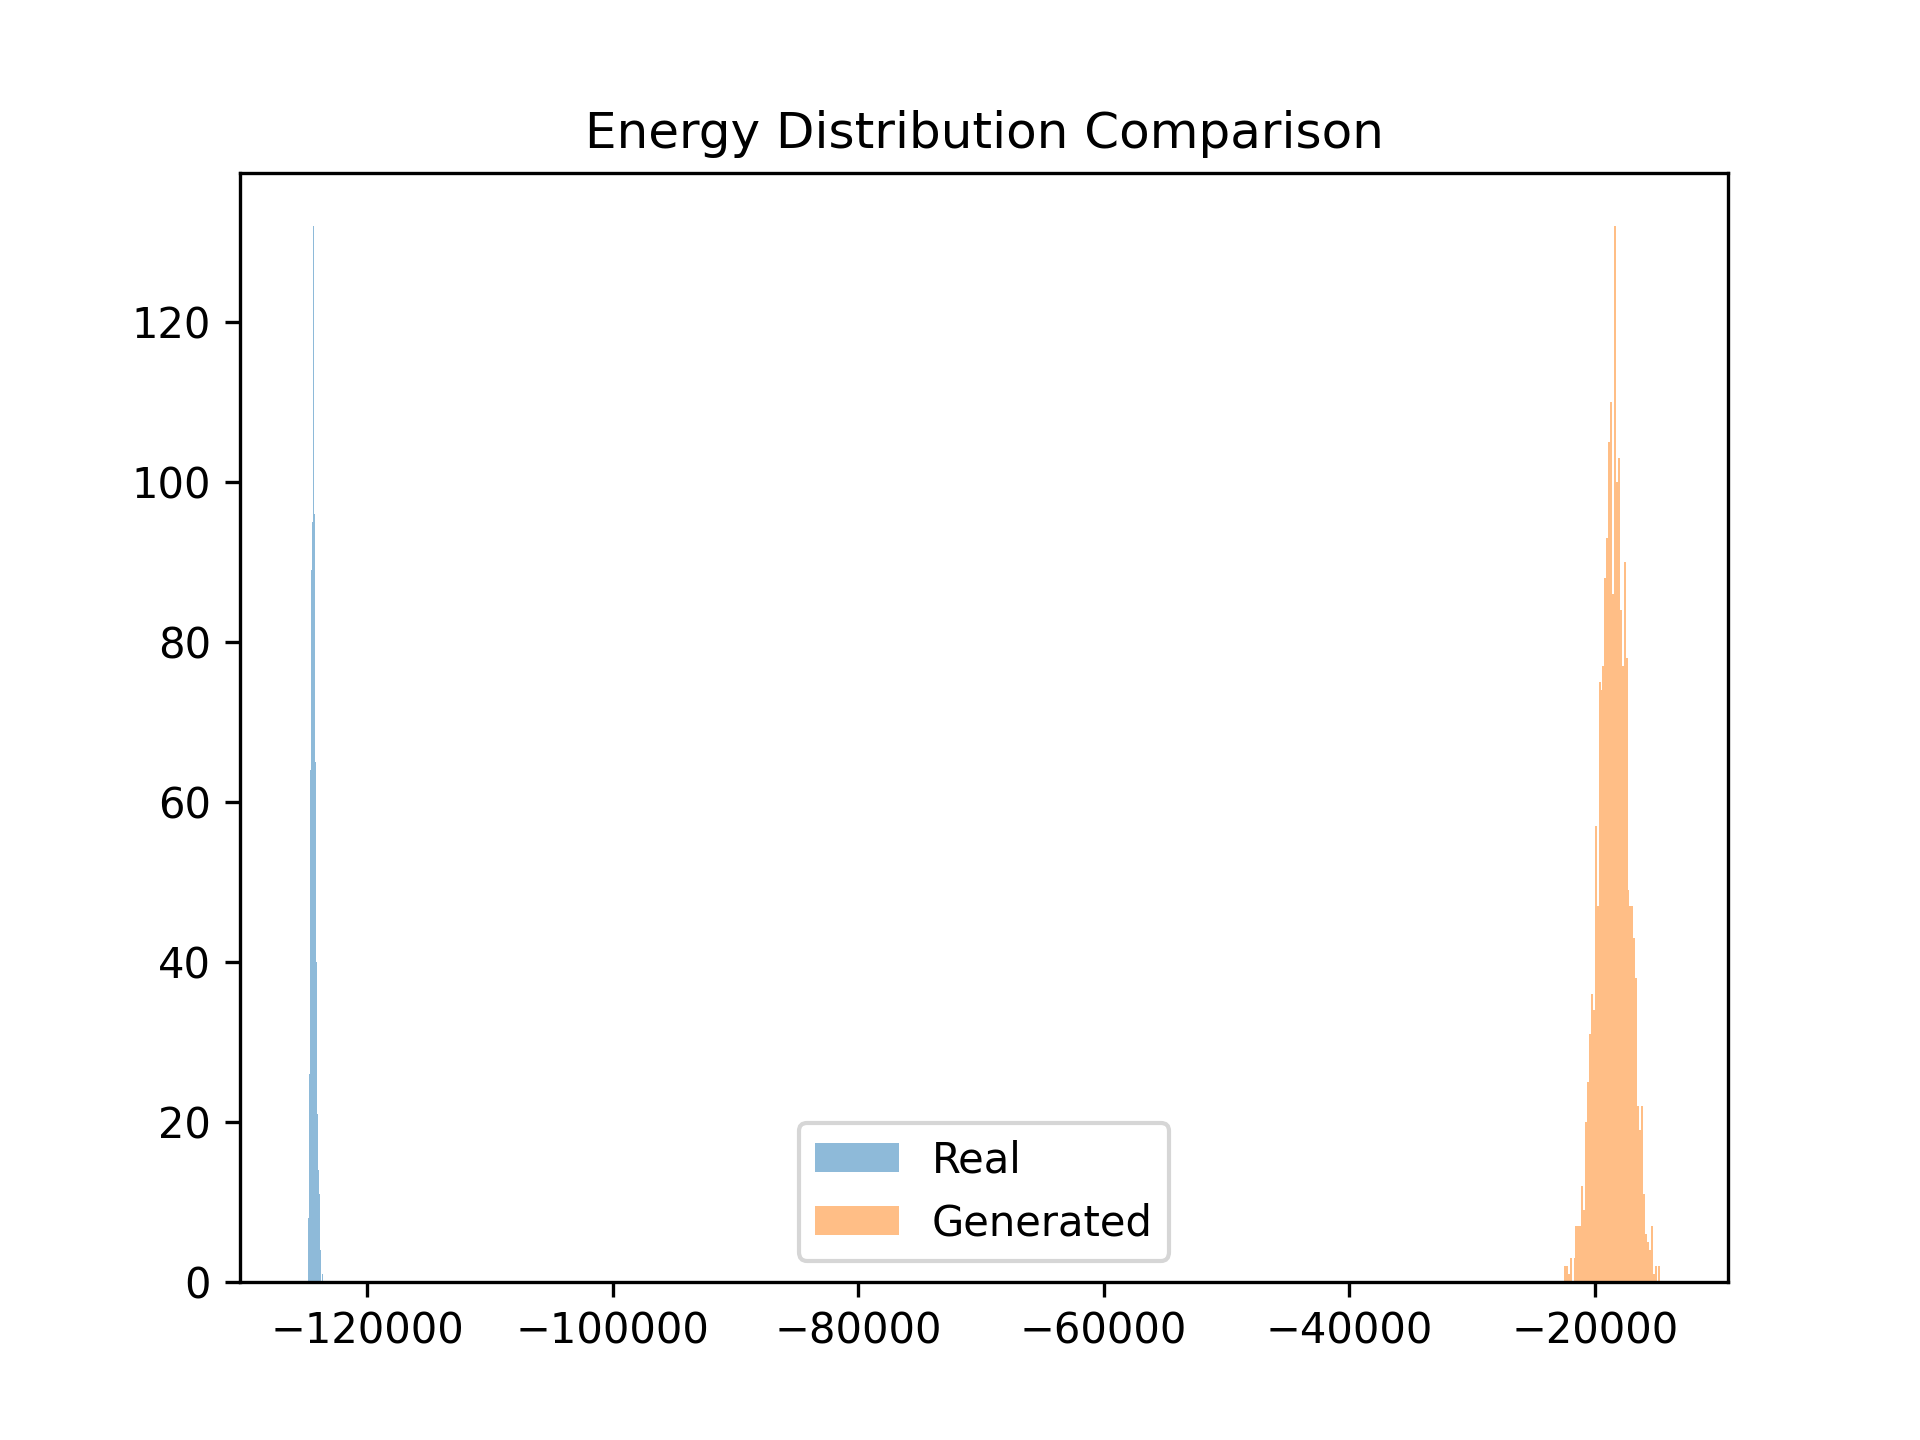
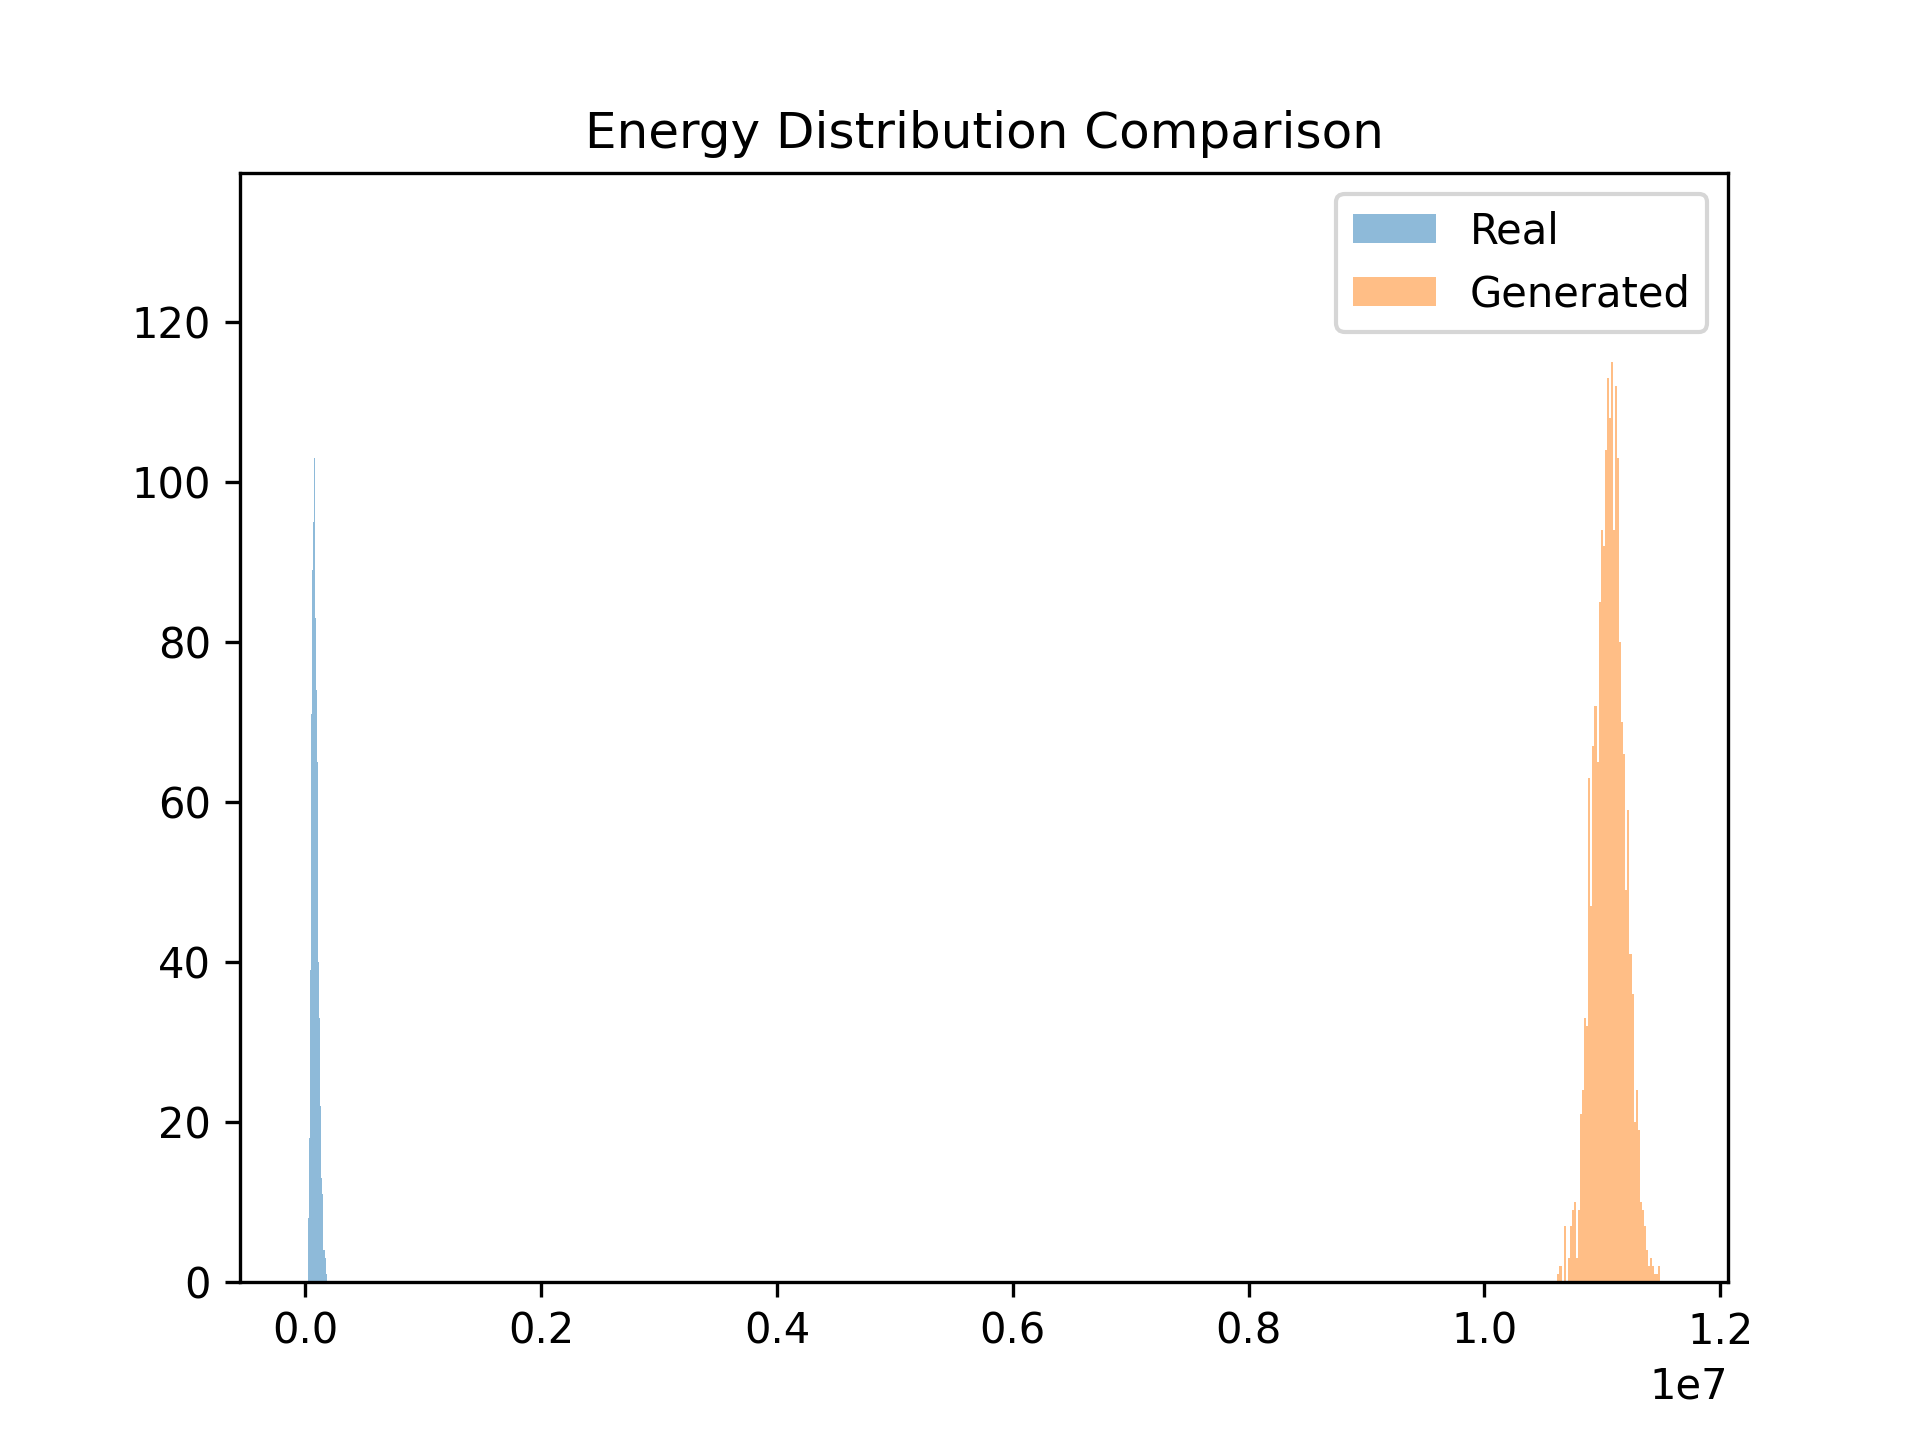
computed radial shower and sparsity and also introduced log normalization

diff --git a/evaluation/energy_distribution.py b/evaluation/energy_distribution.py
@@ -12,23 +12,23 @@ sys.path.append(PROJECT_ROOT)
 from model.network import SimpleCNN
 from model.diffusion import Diffusion
 
-# load real data
+norm = torch.load("norm.pt")
+mean = norm["mean"].item()
+std = norm["std"].item()
+
 f = h5py.File("data/Dataset_Specific_Unlabelled.h5","r")
 real = f["jet"][:2000]
 
-# normalize the same way as training
-real = real / 255.0
-real = real * 2 - 1
+epsilon = 1e-6
+real_log = np.log(real+epsilon)
+real_denorm = np.exp(real_log)
+real_energy = real_denorm.sum(axis=(1,2,3))
 
-real_energy = real.sum(axis=(1,2,3))
-
-# load model
 model = SimpleCNN(T=200)
 model.load_state_dict(torch.load("model.pth"))
 
 diffusion = Diffusion()
 
-# generate in batches to avoid OOM
 all_samples = []
 batch_size = 64
 num_samples = 2000
@@ -40,19 +40,85 @@ for i in range(0, num_samples, batch_size):
     print(f"Generated {i + n}/{num_samples}")
 
 samples = np.concatenate(all_samples, axis=0)
+log_space = samples * std + mean
+log_space = np.clip(log_space, -20, 20)
+gen_denorm = np.exp(log_space)
+generated_energy = gen_denorm.sum(axis=(1,2,3))
 
-generated_energy = samples.sum(axis=(1,2,3))
 
+print("Generated min/max:", gen_denorm.min(), gen_denorm.max())
+print("Real min/max:", real_denorm.min(), real_denorm.max())
+
+# TOTAL ENERGY AND HISTOGRAM 
 plt.hist(real_energy, bins=50, alpha=0.5, label="Real")
 plt.hist(generated_energy, bins=50, alpha=0.5, label="Generated")
 
 plt.legend()
 plt.title("Energy Distribution Comparison")
 
-plt.savefig("results/energy_distribution.png", dpi=300)
+plt.savefig("results/energy_distribution1.png", dpi=300)
 plt.show()
+
 print("Real mean energy:", real_energy.mean())
 print("Generated mean energy:", generated_energy.mean())
 
 print("Real std energy:", real_energy.std())
 print("Generated std energy:", generated_energy.std())
+
+
+# Radial Shower Analysis and sparsity
+
+def radial_analysis(data):
+    sparsities=[]
+    threshold = 1e-3
+    x = np.arange(125)
+    y=np.arange(125)    
+    xx,yy = np.meshgrid(x,y)
+
+    profiles=[]
+    for event in data:
+        img = event.sum(axis=0)
+
+        E = img.sum()
+        if E==0:
+            continue
+        # Sparsity
+        zero_pixel = (np.abs(img)<threshold).sum()
+        total_pixel = img.size
+        sparsity = zero_pixel/total_pixel
+        sparsities.append(sparsity)
+
+        # centroid
+        xc = (xx*img).sum()/E
+        yc = (yy*img).sum()/E
+
+        dist = np.sqrt((xx-xc)**2+(yy-yc)**2)
+        dist_int = dist.astype(int)
+        max_r = 125
+        radial_energy = np.zeros(max_r)
+
+        for r in range(max_r):
+            mask = (dist_int==r)
+            if mask.sum()>0:
+                radial_energy[r] = img[mask].mean()
+        profiles.append(radial_energy)
+    return np.mean(profiles,axis=0), np.array(sparsities)
+
+real_radial_profile, real_sparsity = radial_analysis(np.transpose(real_denorm, (0, 3, 1, 2)))
+gen_radial_profile, gen_sparsity = radial_analysis(gen_denorm)
+
+plt.plot(real_radial_profile, label="Real")
+plt.plot(gen_radial_profile, label="Generated")
+plt.legend()
+plt.title("Radial Profile Comparison")
+plt.savefig("results/radial_profile.png", dpi=300)
+plt.show()
+
+plt.hist(real_sparsity, bins=50, alpha=0.5, label="Real")
+plt.hist(gen_sparsity, bins=50, alpha=0.5, label="Generated")
+plt.legend()
+plt.title("Sparsity Distribution Comparison")
+plt.savefig("results/sparsity_distribution.png", dpi=300)
+plt.show()
+
+        

diff --git a/model/network.py b/model/network.py
@@ -8,32 +8,28 @@ class SimpleCNN(nn.Module):
 
         super().__init__()
 
-        # timestep embedding
         self.time_embed = nn.Embedding(T, 32)
 
         self.conv1 = nn.Conv2d(8, 32, 3, padding=1)
         self.conv2 = nn.Conv2d(32, 64, 3, padding=1)
-        self.conv3 = nn.Conv2d(64, 32, 3, padding=1)
-        self.conv4 = nn.Conv2d(32, 8, 3, padding=1)
+        self.conv3 = nn.Conv2d(64,32,3,padding=1)
+        self.conv4 = nn.Conv2d(32,8,3,padding=1)
 
         self.relu = nn.ReLU()
 
     def forward(self, x, t):
 
-        # timestep embedding
         t_emb = self.time_embed(t)
 
-        # reshape so it can broadcast
         t_emb = t_emb[:, :, None, None]
 
         h = self.relu(self.conv1(x))
 
-        # inject timestep information
         h = h + t_emb
 
         h = self.relu(self.conv2(h))
         h = self.relu(self.conv3(h))
 
-        out = self.conv4(h)
+        out = torch.tanh(self.conv4(h))
 
         return out

diff --git a/model/diffusion.py b/model/diffusion.py
@@ -7,13 +7,10 @@ class Diffusion:
 
         self.T = timesteps
 
-        # beta schedule
         self.betas = torch.linspace(1e-4, 0.02, timesteps)
 
-        # alpha values
         self.alphas = 1.0 - self.betas
 
-        # cumulative product
         self.alpha_bar = torch.cumprod(self.alphas, dim=0)
         
     def sample_xt(self, x0, t):
@@ -30,16 +27,12 @@ class Diffusion:
 
         batch_size = x0.shape[0]
 
-        # sample random timestep
         t = torch.randint(0, self.T, (batch_size,))
 
-        # create noisy image
         xt, noise = self.sample_xt(x0, t)
 
-        # predict noise
         pred_noise = model(xt,t)
 
-        # mse loss
         loss = F.mse_loss(pred_noise, noise)
 
         return loss

diff --git a/training/dataLoader.py b/training/dataLoader.py
@@ -2,6 +2,9 @@ import h5py
 import torch
 from torch.utils.data import TensorDataset, DataLoader
 
+norm = torch.load("norm.pt")
+mean = norm["mean"]
+std = norm["std"]
 def get_loader(file_path, batch_size=32, num_sample=5000):
     file = h5py.File(file_path,"r")
     data=file["jet"]
@@ -9,9 +12,11 @@ def get_loader(file_path, batch_size=32, num_sample=5000):
     subset = data[:num_sample]
     subset=torch.tensor(subset).float()
 
-    subset = subset / 255.0
-    subset = subset * 2 - 1
+    epsilon = 1e-6
+    subset = torch.log(subset+epsilon)
+    subset = (subset-mean)/std
     subset=subset.permute(0,3,1,2)
+
 
     dataset=TensorDataset(subset)
 

diff --git a/compute_norm.py b/compute_norm.py
@@ -1,0 +1,23 @@
+import h5py
+import torch
+
+file = h5py.File("data/Dataset_Specific_Unlabelled.h5", "r")
+data = file["jet"][:5000]  # same as training subset
+
+data = torch.tensor(data).float()
+
+epsilon = 1e-6
+data = torch.log(data + epsilon)
+
+mean = data.mean()
+std = data.std()
+
+print("Mean:", mean.item())
+print("Std:", std.item())
+
+torch.save({
+    "mean": mean,
+    "std": std
+}, "norm.pt")
+
+print("Saved norm.pt")

diff --git a/training/train.py b/training/train.py
@@ -20,9 +20,9 @@ loader = get_loader(
 model=SimpleCNN(T=200)
 diffusion=Diffusion()
 
-optimizer = optim.Adam(model.parameters(), lr=1e-4)
+optimizer = optim.Adam(model.parameters(), lr=5e-5)
 
-epochs = 30
+epochs = 150
 
 for epoch in range(epochs):
 

diff --git a/generate.py b/generate.py
@@ -19,5 +19,5 @@ plt.imshow(samples[0,0])
 plt.colorbar()
 plt.title("Generated Sample Channel 0")
 
-plt.savefig("results/generated_sample.png", dpi=300)
+plt.savefig("results/generated_sample1.png", dpi=300)
 plt.show()
